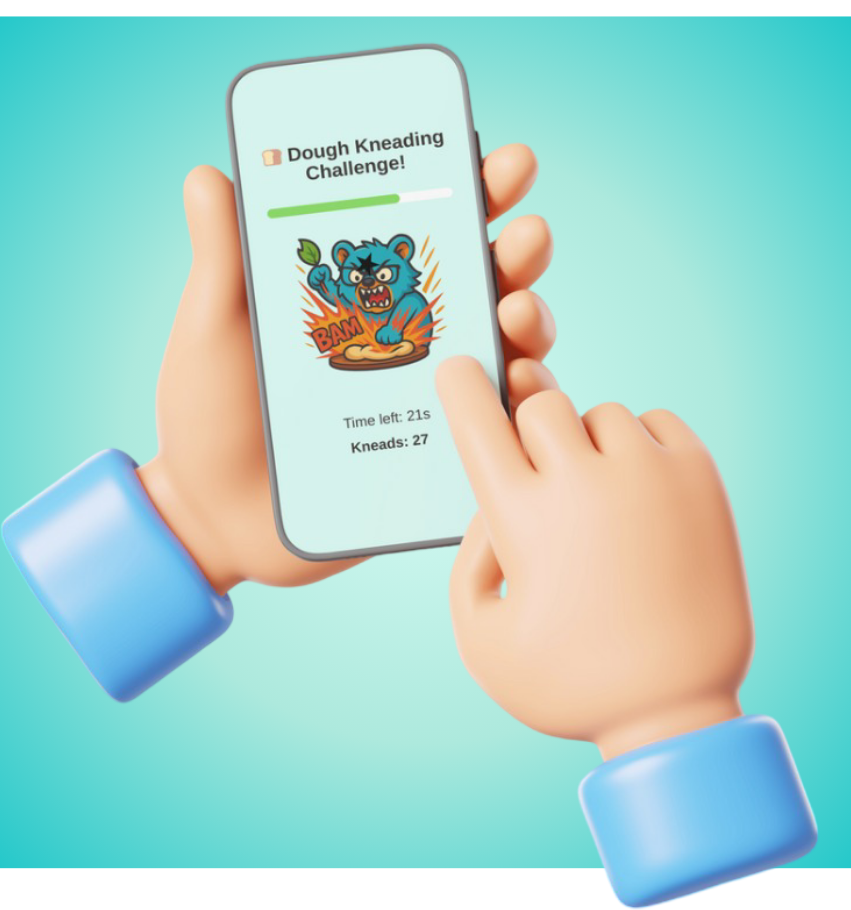
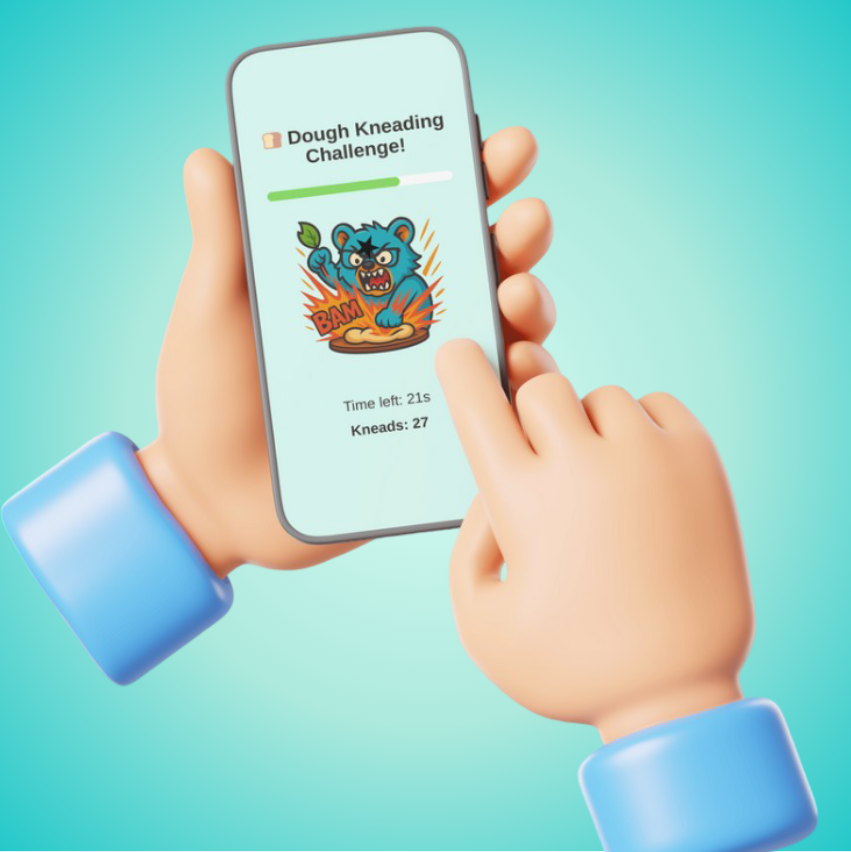
add pics 4/4!!!

diff --git a/src/pages/Home.tsx b/src/pages/Home.tsx
@@ -8,6 +8,7 @@ import ProductSection from "../sections/ProductSection";
 import TestimonialsSection from "../sections/TestimonialsSection";
 import ContactSection from "../sections/ContactSection";
 import CTASection from "../sections/CTASection";
+import DemoExperienceSection from "../sections/DemoExperienceSection";
 
 // Reusable Content Sections (for the new B2B flow)
 import LeftTextRightImageSection from "../sections/LeftText-RightImageSection";
@@ -58,13 +59,13 @@ export default function Home() {
             "Mini-games spark curiosity, invite interaction, and keep your brand top-of-mind. Gamified ads don't just get seen. They get played, shared, and remembered. We turn passive scrollers into active participants, and boring impressions into measurable results.",
             "Every interaction becomes data. Every game completion becomes a conversion opportunity. Every share becomes free brand exposure."
           ]}
-          imageSrc="/assets/home/trygamified-no-bg.webp"
+          imageSrc="/assets/home/trygmf1.png"
           imageAlt="Gamified ad experience mockup"
           reverseGradient={true}
           primaryBtnText="Learn More"
-          primaryBtnLink="#"
+          primaryBtnLink="/contact"
           secondaryBtnText="Schedule a Demo"
-          secondaryBtnLink="#"
+          secondaryBtnLink="https://calendly.com/hello-qqadvertisement/30min"
         >
           {/* Stat Row */}
           <div className="flex flex-wrap gap-4 mt-4">
@@ -103,10 +104,15 @@ export default function Home() {
           bgVia="blue-50"
           bgTo="white"
           primaryBtnText="Learn More"
-          primaryBtnLink="#"
+          primaryBtnLink="/contact"
           secondaryBtnText="Schedule a Demo"
-          secondaryBtnLink="#"
+          secondaryBtnLink="https://calendly.com/hello-qqadvertisement/30min"
         />
+
+        {/* 5.5. Demo Experience Section */}
+        <section id="demo">
+          <DemoExperienceSection />
+        </section>
 
         {/* 6. Product Offer 4: Done-For-You Campaigns */}
         <LeftImageRightTextSection
@@ -116,13 +122,13 @@ export default function Home() {
             "Track engagement patterns, identify user behavior trends, and understand what keeps players coming back. Our team doesn't just build games. We analyze every interaction to help you understand your audience and optimize future campaigns for maximum ROI.",
             "Get detailed performance reports with human interpretation. We don't just show you numbers. We explain what they mean for your brand and how to apply these insights to your next campaign. Data-driven decisions made simple."
           ]}
-          imageSrc="/images/placeholder-case-study.webp"
+          imageSrc="/assets/home/tryanal3.png"
           imageAlt="Analytics dashboard showing campaign performance metrics and user insights"
           reverseGradient={true}
-          primaryBtnText="See Dashboard Demo"
-          primaryBtnLink="#"
-          secondaryBtnText="Schedule Analytics Review"
-          secondaryBtnLink="#"
+          primaryBtnText="Learn more"
+          primaryBtnLink="/contact"
+          secondaryBtnText="Schedule a Demo"
+          secondaryBtnLink="https://calendly.com/hello-qqadvertisement/30min"
         />
         
         {/* 7. Product Showcase */}

diff --git a/src/pages/Contact.tsx b/src/pages/Contact.tsx
@@ -1,59 +1,16 @@
-import React, { useEffect } from "react";
+import React from "react";
 import { Helmet } from "react-helmet-async";
+import ContactSection from "../sections/ContactSection";
 
-export default function ContactSection() {
-  useEffect(() => {
-    const script = document.createElement("script");
-    script.src = "https://tally.so/widgets/embed.js";
-    script.async = true;
-    script.onload = () => {
-      // @ts-ignore
-      if (window.Tally) window.Tally.loadEmbeds();
-    };
-    document.body.appendChild(script);
-  }, []);
-
+export default function Contact() {
   return (
     <>
       <Helmet>
         <title>Contact | QQ Advertisement</title>
-        <meta name="description" content="Contact QQ Advertisement to explore how we can gamify your ad campaigns. Let’s build engaging and playful customer experiences together." />
+        <meta name="description" content="Contact QQ Advertisement to explore how we can gamify your ad campaigns. Let's build engaging and playful customer experiences together." />
         <meta name="keywords" content="contact ad agency, gamified ads, marketing inquiry, interactive advertising, QQ Advertisement contact" />
       </Helmet>
-      <section className="bg-gray-50 py-20 px-6">
-        <div className="max-w-7xl mx-auto grid md:grid-cols-2 gap-12 items-start">
-          {/* Text Column */}
-          <div>
-            <h2 className="text-4xl font-bold text-teal-700 mb-6">
-              Ready to Gamify Your Next Campaign?
-            </h2>
-            <p className="text-gray-700 text-lg mb-4">
-              Let's turn your marketing into something people actually want to interact with. Book a free discovery call — we'll brainstorm your first gamified concept, on the house.
-            </p>
-            <p className="text-gray-700 text-lg">
-              Whether you're launching a product, boosting loyalty, or just tired of boring ads — we've got ideas ready to roll.
-              <br></br>
-              ⸻
-              <br></br>
-              🛡 We'll only use your info to contact you about your inquiry. No spam. Ever!!
-            </p>
-          </div>
-
-          {/* Form Embed */}
-          <div className="w-full max-w-xl">
-            <iframe
-              data-tally-src="https://tally.so/embed/31xKGL?alignLeft=1&hideTitle=1&transparentBackground=1&dynamicHeight=1"
-              loading="lazy"
-              width="100%"
-              height="574"
-              frameBorder="0"
-              marginHeight={0}
-              marginWidth={0}
-              title="Registration form"
-            ></iframe>
-          </div>
-        </div>
-      </section>
+      <ContactSection />
     </>
   );
 }

diff --git a/src/sections/ContactSection.tsx b/src/sections/ContactSection.tsx
@@ -15,8 +15,22 @@ export default function ContactSection() {
   return (
     <section className="bg-gray-50 py-10 md:py-20 px-4 md:px-6">
       <div className="max-w-7xl mx-auto grid md:grid-cols-2 gap-6 md:gap-12 items-start">
-        {/* Text Column */}
-        <div>
+        {/* Form Embed - Shows first on mobile, second on desktop */}
+        <div className="w-full max-w-xl order-1 md:order-2">
+          <iframe
+            data-tally-src="https://tally.so/embed/31xKGL?alignLeft=1&hideTitle=1&transparentBackground=1&dynamicHeight=1"
+            loading="lazy"
+            width="100%"
+            height="574"
+            frameBorder="0"
+            marginHeight={0}
+            marginWidth={0}
+            title="Registration form"
+          ></iframe>
+        </div>
+
+        {/* Text Column - Shows second on mobile, first on desktop */}
+        <div className="order-2 md:order-1">
           <h2 className="text-4xl font-bold text-teal-700 mb-6">
             Ready to Gamify Your Next Campaign?
           </h2>
@@ -30,20 +44,6 @@ export default function ContactSection() {
             <br></br>
             🛡 We'll only use your info to contact you about your inquiry. No spam. Ever!!
           </p>
-        </div>
-
-        {/* Form Embed */}
-        <div className="w-full max-w-xl">
-          <iframe
-            data-tally-src="https://tally.so/embed/31xKGL?alignLeft=1&hideTitle=1&transparentBackground=1&dynamicHeight=1"
-            loading="lazy"
-            width="100%"
-            height="574"
-            frameBorder="0"
-            marginHeight={0}
-            marginWidth={0}
-            title="Registration form"
-          ></iframe>
         </div>
       </div>
     </section>

diff --git a/src/sections/TestimonialsSection.tsx b/src/sections/TestimonialsSection.tsx
@@ -25,17 +25,17 @@ export default function TestimonialsSection() {
         {/* Right Column: Testimonial */}
         <div className="text-left bg-gray-50 p-8 rounded-2xl shadow-sm">
           <p className="text-2xl lg:text-3xl font-medium text-gray-700 italic leading-snug">
-            "They have some amazing tools to show us, and to teach us, really, which designs work the best."
+            "They gamified one of our survey campaigns. It's so good! Our customers are happier and we're seeing more returning eaters."
           </p>
           <div className="flex items-center mt-8">
             <img
-              src="/assets/avatars/jerry.webp" // Placeholder avatar
-              alt="Jerry"
+              src="/assets/logos/Friends-ramen.webp" // Placeholder avatar
+              alt="Friends Ramen"
               className="w-16 h-16 rounded-full object-cover"
             />
             <div className="ml-4">
-              <p className="font-bold text-gray-900">Jerry</p>
-              <p className="text-gray-600">Marketing Director, Example Corp</p>
+              <p className="font-bold text-gray-900">Friends Ramen</p>
+              <p className="text-gray-600">Owner, Friends Ramen</p>
               {/* If you have a company logo, it can go here */}
               {/* <img src="/path/to/company-logo.svg" alt="Example Corp" className="mt-2 h-6" /> */}
             </div>

diff --git a/src/sections/CTASection.tsx b/src/sections/CTASection.tsx
@@ -12,7 +12,7 @@ export default function CTASection({
   title = "Turn Engagement Into Conversions",
   subtitle = "Our gamified ads aren't just fun. They work! From 7x email signups to 1.5M+ app downloads, we build campaigns that people actually interact with. Let's talk about what that'd look like for you.",
   buttonLabel = "👉 Schedule a Discovery Call",
-  buttonHref = "https://calendly.com/thitipun-snw/30min", // Replace with actual Tally URL
+  buttonHref = "https://calendly.com/hello-qqadvertisement/30min",
 }: CTAProps) {
   
   const handleCTAClick = () => {
